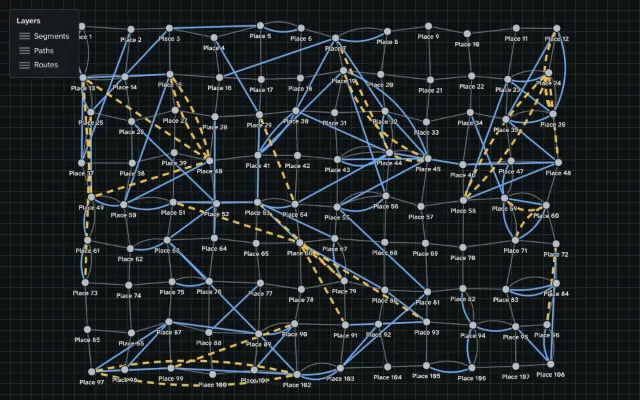
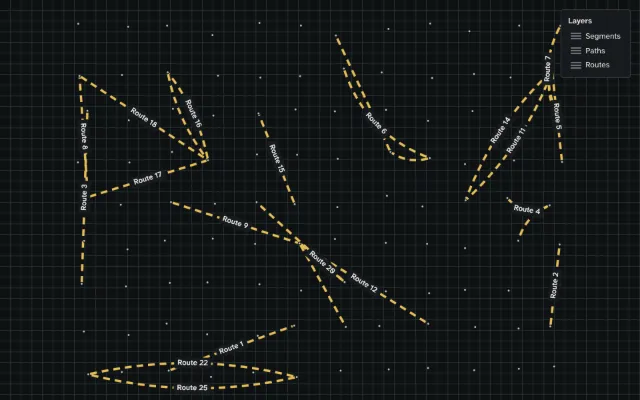
docs: show the multilayer example as a drill-down

Changed region(s): [[0.0, 0.03, 0.9688, 0.99]]

diff --git a/docs/src/examples/multilayer/main.ts b/docs/src/examples/multilayer/main.ts
@@ -1,54 +1,58 @@
-import { defineGraph, edges, type GraphInstance, mountGraph, nodes } from '@bruno00o/graph'
+import {
+  defineGraph,
+  edges,
+  type GraphInstance,
+  type Key,
+  mountGraph,
+  nodes,
+} from '@bruno00o/graph'
 import { createLegend, mountLegend } from '@bruno00o/graph/legend'
-import { createStrata } from '../shared/data'
-import { messages } from '../shared/messages'
 import '../shared/overlays.css'
+import { createNetwork, type Link } from './data'
+import { messages } from './messages'
 
-const strata = createStrata(12, 9)
-const edgeCount = strata.lower.length + strata.middle.length + strata.upper.length
-const link = { source: 'from', target: 'to', supportedBy: 'over' } as const
+const network = createNetwork()
+const link = {
+  source: 'from',
+  target: 'to',
+  supportedBy: 'over',
+  label: { text: 'name', size: 14, background: true },
+} as const
+const total = network.routes.length + network.paths.length + network.segments.length
+const beneath = [...network.paths, ...network.segments].map((edge) => edge.id)
 
 const definition = defineGraph({
   marks: [
-    edges(strata.lower, { ...link, layer: 'lower', width: 1.5 }),
-    edges(strata.middle, {
+    edges(network.segments, { ...link, layer: 'lower', width: 2 }),
+    edges(network.paths, {
       ...link,
       layer: 'middle',
       stroke: 'var(--graph-cat-1)',
       width: 2.5,
     }),
-    edges(strata.upper, {
+    edges(network.routes, {
       ...link,
       layer: 'upper',
       stroke: 'var(--graph-cat-2)',
       width: 3.5,
       dash: 'dashed',
     }),
-    nodes(strata.places, { x: 'x', y: 'y', label: 'label' }),
+    nodes(network.places, { x: 'x', y: 'y', size: 6 }),
   ],
   states: {
-    carrier: {
-      stroke: 'var(--graph-accent)',
-      outline: 'var(--graph-accent)',
-      strokeWidth: 3,
-      raise: true,
-    },
-    carried: {
-      stroke: 'var(--graph-cat-4)',
-      outline: 'var(--graph-cat-4)',
-      strokeWidth: 3,
-      raise: true,
-    },
+    closed: { hide: true },
+    open: { stroke: 'var(--graph-accent)', raise: true },
   },
-  support: { carriers: 'carrier', carried: 'carried' },
   interaction: { select: 'single' },
 })
 
 export function mount(container: HTMLElement): GraphInstance {
   const graph = mountGraph(container, {
     definition,
-    ariaLabel: messages.graphLabel(strata.places.length, edgeCount),
+    ariaLabel: messages.graphLabel(network.places.length, network.routes.length),
   })
+  const opened = new Set<Key>()
+  let hovered: Link | null = null
 
   const legend = createLegend(graph)
   const view = mountLegend(legend, {
@@ -57,24 +61,67 @@ export function mount(container: HTMLElement): GraphInstance {
     layerText: (layer) => messages.layerNames[layer.name] ?? layer.name,
     ariaLabel: messages.layersLabel,
   })
-  view.element.classList.add('example-scale-legend')
+  view.element.classList.add('example-scale-legend', 'example-scale-legend-right')
   container.append(view.element)
 
   const status = document.createElement('output')
   status.className = 'example-status'
-  status.textContent = messages.supportHint
   container.append(status)
 
-  graph.on('selectionchange', ({ selection }) => {
-    const [key] = selection.edges
-    status.textContent =
-      key === undefined
-        ? messages.supportHint
-        : messages.supportStatus(
-            graph.support.carriers(key).edges.length,
-            graph.support.carried(key).edges.length,
-          )
+  const reset = document.createElement('button')
+  reset.type = 'button'
+  reset.className = 'example-button'
+  reset.textContent = messages.reset
+  const actions = document.createElement('div')
+  actions.className = 'example-actions'
+  actions.append(reset)
+  container.append(actions)
+
+  function render(): void {
+    const revealed = new Set<Key>()
+    for (const key of opened) {
+      for (const carrier of graph.support.carriers(key, { maxDepth: 1 }).edges) {
+        revealed.add(carrier)
+      }
+    }
+    graph.states.set('closed', { edges: beneath.filter((key) => !revealed.has(key)) })
+    graph.states.set('open', { edges: [...opened] })
+    status.textContent = hovered
+      ? messages.edge(hovered.name, hovered.capacity, hovered.over.length)
+      : messages.shown(network.routes.length + revealed.size, total)
+  }
+
+  function toggle(key: Key): void {
+    if (opened.delete(key)) {
+      for (const deeper of graph.support.carriers(key).edges) opened.delete(deeper)
+    } else if (graph.support.carriers(key, { maxDepth: 1 }).edges.length > 0) {
+      opened.add(key)
+    }
+    render()
+  }
+
+  graph.on('doubleclick', ({ target }) => {
+    if (target?.kind === 'edge') toggle(target.key)
   })
+
+  graph.on('pointerenter', ({ target }) => {
+    if (target.kind !== 'edge') return
+    hovered = target.datum
+    render()
+  })
+
+  graph.on('pointerleave', () => {
+    hovered = null
+    render()
+  })
+
+  reset.addEventListener('click', () => {
+    opened.clear()
+    graph.selection.clear()
+    render()
+  })
+
+  render()
 
   return graph
 }

diff --git a/docs/src/examples/multilayer/messages.ts b/docs/src/examples/multilayer/messages.ts
@@ -1,0 +1,24 @@
+const numbers = new Intl.NumberFormat('en-US')
+
+const count = (value: number, one: string, many: string) =>
+  `${numbers.format(value)} ${value === 1 ? one : many}`
+
+export const messages = {
+  graphLabel: (places: number, routes: number) =>
+    `Graph of ${count(places, 'place', 'places')} and ${count(routes, 'route', 'routes')}`,
+  reset: 'Start over',
+  layersTitle: 'Layers',
+  layersLabel: 'Layers of the graph',
+  layerNames: { lower: 'Segments', middle: 'Paths', upper: 'Routes' } as Record<string, string>,
+  names: {
+    upper: (order: number) => `Route ${numbers.format(order)}`,
+    middle: (order: number) => `Path ${numbers.format(order)}`,
+    lower: (order: number) => `Segment ${numbers.format(order)}`,
+  },
+  shown: (shown: number, total: number) =>
+    `${numbers.format(shown)} of ${numbers.format(total)} edges shown`,
+  edge: (name: string, capacity: number, carriers: number) =>
+    `${name}, capacity ${numbers.format(capacity)}, ${
+      carriers === 0 ? 'no carrier' : count(carriers, 'carrier', 'carriers')
+    }`,
+} as const

diff --git a/docs/src/examples/multilayer/meta.ts b/docs/src/examples/multilayer/meta.ts
@@ -3,11 +3,11 @@ import type { ExampleMeta } from '../types'
 export default {
   title: 'Multilayer graph',
   description:
-    'Three layers of edges between the same places: segments, paths that run along segments, and routes that run along paths. Hide a layer from the legend, and click an edge to light what carries it and what it carries.',
-  hint: 'Click an edge. Click a layer in the legend to hide it.',
+    'Routes between places, each with its own name and capacity, that run along paths, which run along segments. Only the routes show at first: double-click an edge to open the edges that carry it, one level at a time.',
+  hint: 'Double-click an edge to open what carries it. Double-click it again to close.',
   category: 'structure',
   order: 30,
   tags: ['Vanilla'],
-  api: ['edges', 'support', 'legend'],
-  guides: ['multilayer'],
+  api: ['edges', 'support', 'events', 'legend'],
+  guides: ['multilayer#drill-down'],
 } satisfies ExampleMeta

diff --git a/docs/src/examples/multilayer/data.ts b/docs/src/examples/multilayer/data.ts
@@ -1,0 +1,25 @@
+import { createStrata, type LayeredLink } from '../shared/data'
+import { random } from '../shared/random'
+import { messages } from './messages'
+
+export interface Link extends LayeredLink {
+  readonly name: string
+  readonly capacity: number
+}
+
+export function createNetwork() {
+  const strata = createStrata(12, 9)
+  const next = random(11)
+  const describe = (links: LayeredLink[], name: (order: number) => string): Link[] =>
+    links.map((link, index) => ({
+      ...link,
+      name: name(index + 1),
+      capacity: 10 + Math.round(next() * 90),
+    }))
+  return {
+    places: strata.places,
+    routes: describe(strata.upper, messages.names.upper),
+    paths: describe(strata.middle, messages.names.middle),
+    segments: describe(strata.lower, messages.names.lower),
+  }
+}
